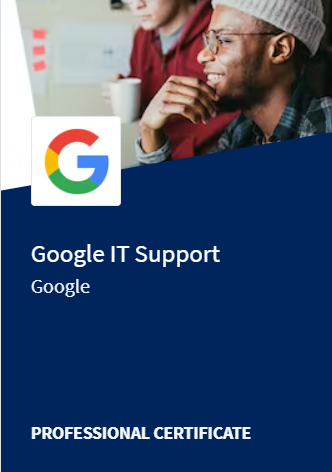
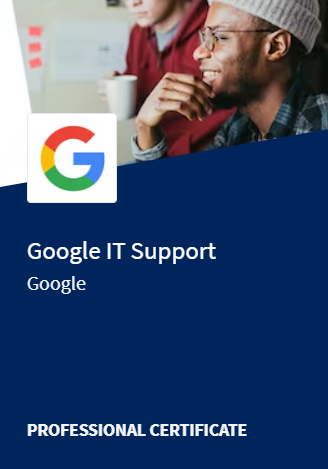
Added images

Changed region(s): [[0.0, 0.0, 1.0, 0.4478], [0.061, 0.5075, 0.6707, 0.6269], [0.061, 0.8955, 0.7622, 0.9552]]

diff --git a/pages/index.js b/pages/index.js
@@ -1,3 +1,17 @@
 export default function Home() {
-  return <div>Hello World!</div>;
+  return (
+    <div>
+      Hello World!
+      <div>
+        <h2>IT support</h2>
+        <div className="py-4">
+          <div className="w-64">
+            <div className="bg-cyan-100 p-5 rounded-xl">
+              <img src="/courses/GoogleITSupport.png" alt="" />
+            </div>
+          </div>
+        </div>
+      </div>
+    </div>
+  );
 }
